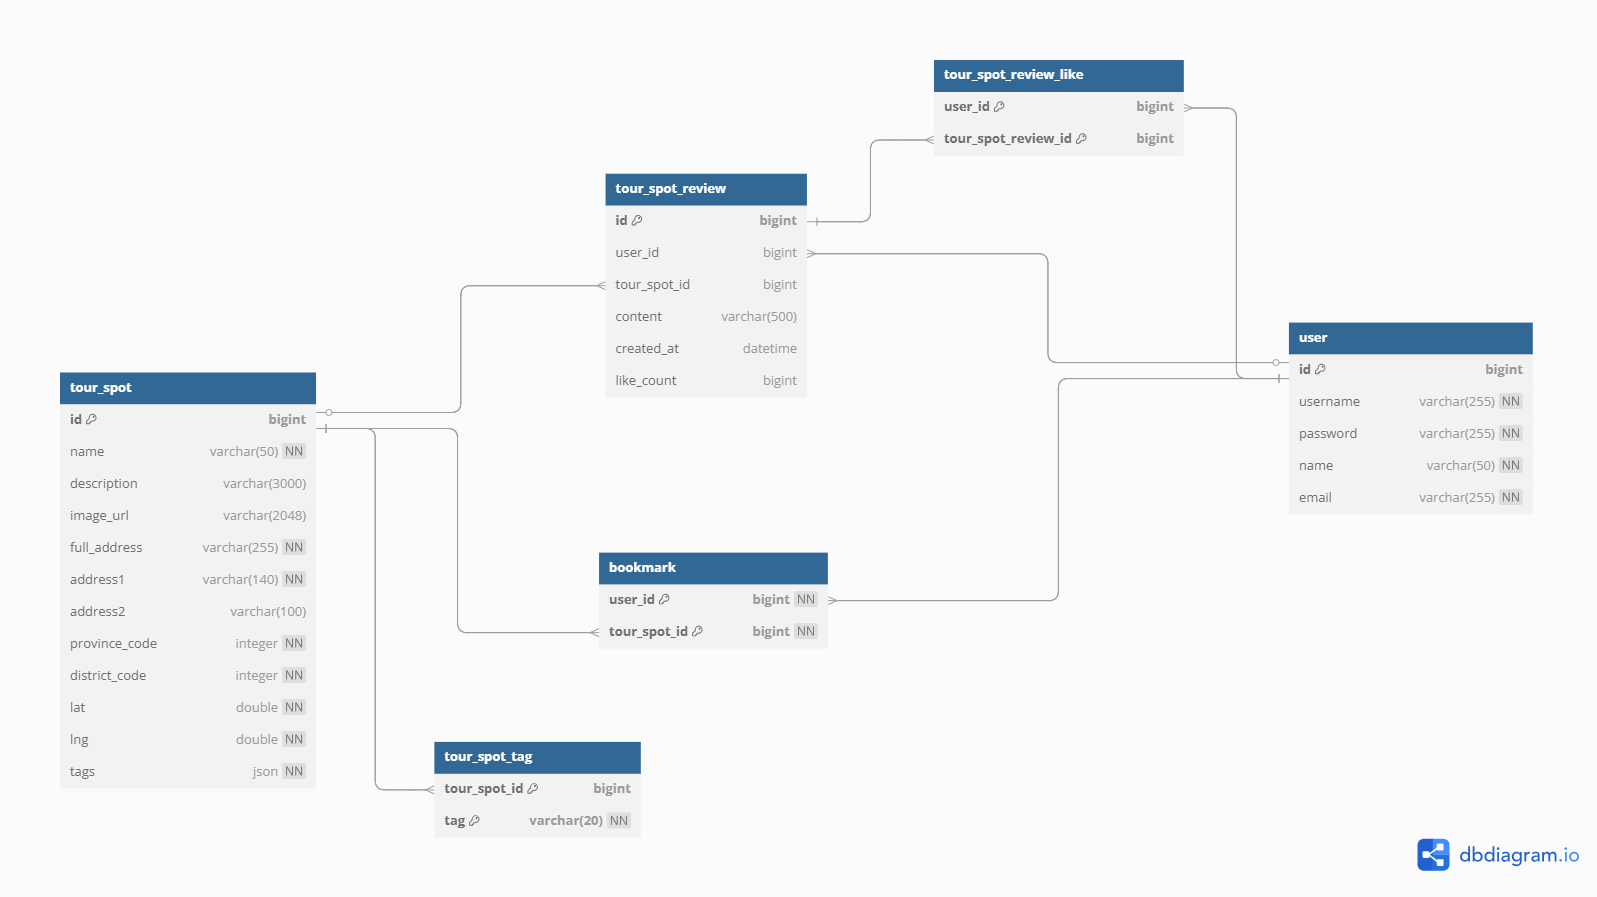
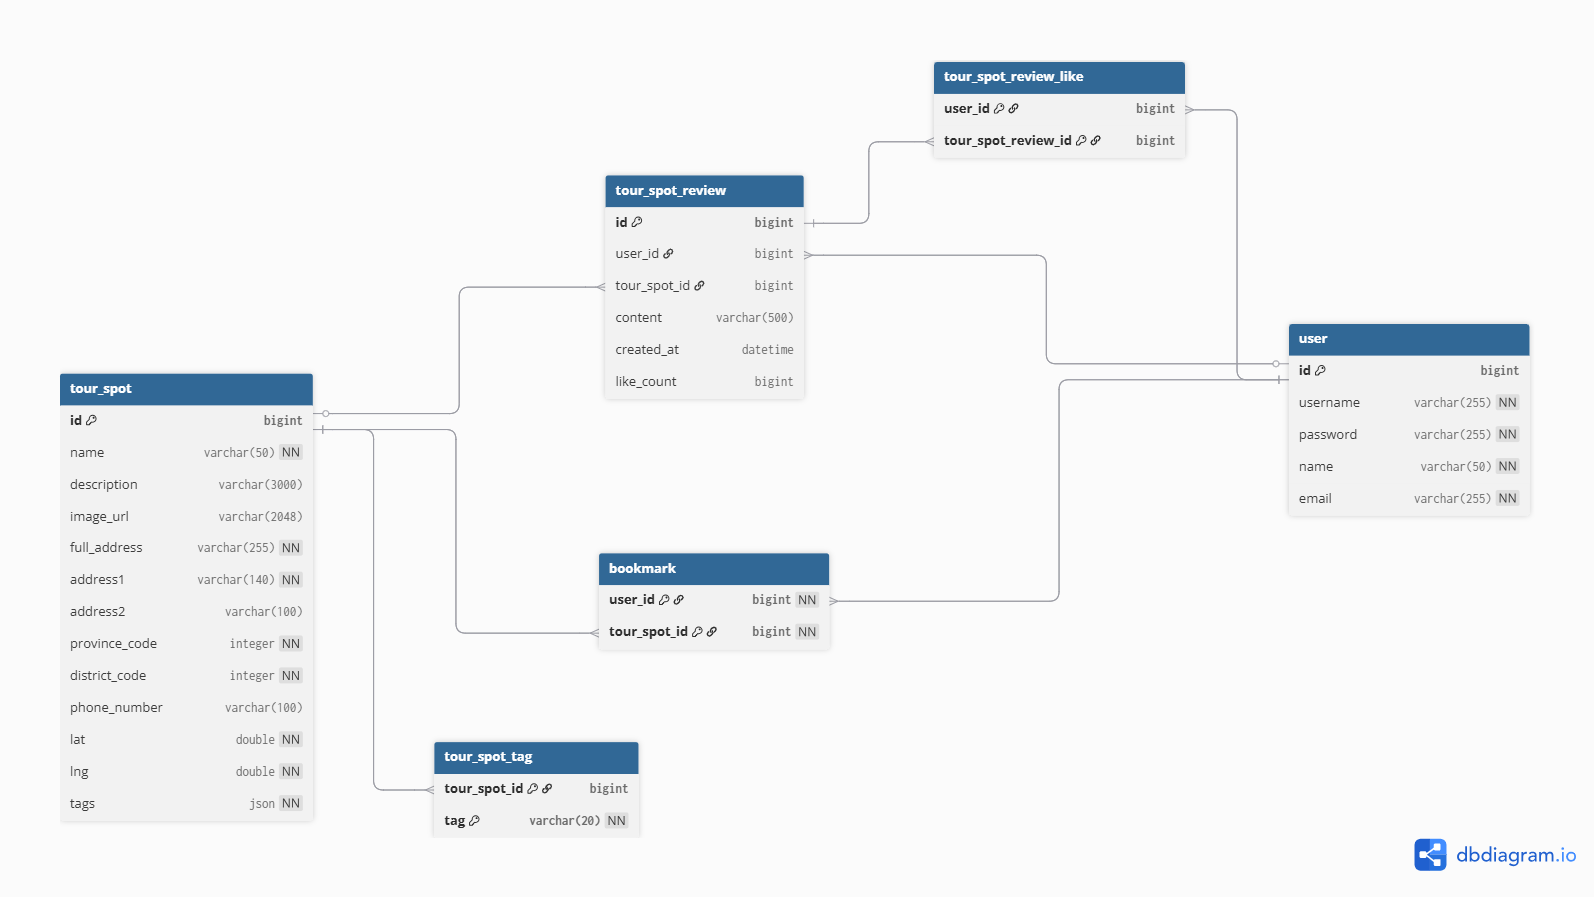
fix/backend: TourSpot 누락 칼럼(phone_number) 추가

diff --git a/backend/src/main/java/com/positivewand/tourin/domain/tourspot/TourSpotRepository.java b/backend/src/main/java/com/positivewand/tourin/domain/tourspot/TourSpotRepository.java
@@ -39,6 +39,7 @@ public interface TourSpotRepository extends JpaRepository<TourSpot, Long> {
                 filtered_ts.address2 as address1,
                 filtered_ts.province_code as province_code,
                 filtered_ts.district_code as district_code,
+                filtered_ts.phone_number as phone_number,
                 filtered_ts.lat as lat,
                 filtered_ts.lng as lng
             FROM (SELECT ts.* FROM tour_spot ts WHERE MATCH(ts.name) AGAINST(:query IN BOOLEAN MODE)) filtered_ts
@@ -70,6 +71,7 @@ public interface TourSpotRepository extends JpaRepository<TourSpot, Long> {
                 filtered_ts.address2 as address1,
                 filtered_ts.province_code as province_code,
                 filtered_ts.district_code as district_code,
+                filtered_ts.phone_number as phone_number,
                 filtered_ts.lat as lat,
                 filtered_ts.lng as lng
             FROM (SELECT ts.* FROM tour_spot ts) filtered_ts
@@ -129,6 +131,7 @@ public interface TourSpotRepository extends JpaRepository<TourSpot, Long> {
                 filtered_ts.address2 as address1,
                 filtered_ts.province_code as province_code,
                 filtered_ts.district_code as district_code,
+                filtered_ts.phone_number as phone_number,
                 filtered_ts.lat as lat,
                 filtered_ts.lng as lng
             FROM (
@@ -178,6 +181,7 @@ public interface TourSpotRepository extends JpaRepository<TourSpot, Long> {
                 filtered_ts.address2 as address1,
                 filtered_ts.province_code as province_code,
                 filtered_ts.district_code as district_code,
+                filtered_ts.phone_number as phone_number,
                 filtered_ts.lat as lat,
                 filtered_ts.lng as lng
             FROM (

diff --git a/backend/src/main/java/com/positivewand/tourin/domain/tourspot/entity/TourSpot.java b/backend/src/main/java/com/positivewand/tourin/domain/tourspot/entity/TourSpot.java
@@ -34,6 +34,8 @@ public class TourSpot {
     private Integer provinceCode;
     @Column(name="district_code")
     private Integer districtCode;
+    @Column(name="phone_number")
+    private String phoneNumber;
     @Column(name = "lat")
     private Double lat;
     @Column(name = "lng")
@@ -53,6 +55,7 @@ public class TourSpot {
             String address2,
             int provinceCode,
             int districtCode,
+            String phoneNumber,
             double lat,
             double lng,
             List<TourSpotCategory> tags
@@ -68,6 +71,7 @@ public class TourSpot {
         newTourSpot.address2 = address2;
         newTourSpot.provinceCode = provinceCode;
         newTourSpot.districtCode = districtCode;
+        newTourSpot.phoneNumber = phoneNumber;
         newTourSpot.lat = lat;
         newTourSpot.lng = lng;
         newTourSpot.tags = new ArrayList<>();

diff --git a/backend/src/main/java/com/positivewand/tourin/web/tourspot/response/TourSpotOverviewResponse.java b/backend/src/main/java/com/positivewand/tourin/web/tourspot/response/TourSpotOverviewResponse.java
@@ -12,6 +12,7 @@ public record TourSpotOverviewResponse(
         double lng,
         String imageUrl,
         String description,
+        String phoneNumber,
         List<String> tags
 ) {
     public static TourSpotOverviewResponse createFromTourSpotDto(TourSpotDto tourSpotDto) {
@@ -23,6 +24,7 @@ public record TourSpotOverviewResponse(
                 tourSpotDto.lng(),
                 tourSpotDto.imageUrl(),
                 tourSpotDto.description(),
+                tourSpotDto.phoneNumber(),
                 tourSpotDto.tags()
         );
     }

diff --git a/backend/src/test/java/com/positivewand/tourin/web/tourspot/TourSpotSearchControllerTest.java b/backend/src/test/java/com/positivewand/tourin/web/tourspot/TourSpotSearchControllerTest.java
@@ -106,6 +106,7 @@ public class TourSpotSearchControllerTest {
                         "대충 address2",
                         111,
                         111,
+                        "대충 전화번호",
                         i < 10 ? seoulLat : tokyoLat,
                         i < 10 ? seoulLng : tokyoLng,
                         Arrays.asList(tags[i % 3])

diff --git a/backend/src/main/java/com/positivewand/tourin/domain/tourspot/dto/TourSpotDto.java b/backend/src/main/java/com/positivewand/tourin/domain/tourspot/dto/TourSpotDto.java
@@ -24,7 +24,7 @@ public record TourSpotDto(
                 entity.getLng(),
                 entity.getImageUrl(),
                 entity.getDescription(),
-                entity.getFullAddress(),
+                entity.getPhoneNumber(),
                 entity.getTags().stream().map((tourSpotTag -> tourSpotTag.getTag().getViewString())).toList()
         );
     }

diff --git a/backend/src/test/java/com/positivewand/tourin/web/tourspot/RecommendationControllerTest.java b/backend/src/test/java/com/positivewand/tourin/web/tourspot/RecommendationControllerTest.java
@@ -100,6 +100,7 @@ class RecommendationControllerTest {
                     "대충 address2",
                     111,
                     111,
+                    "대충 전화번호",
                     37.5642135,
                     127.0016985,
                     Arrays.asList(TourSpotCategory.EXPERIENCE)

diff --git a/backend/src/test/java/com/positivewand/tourin/web/user/UserControllerTest.java b/backend/src/test/java/com/positivewand/tourin/web/user/UserControllerTest.java
@@ -106,6 +106,7 @@ class UserControllerTest {
                     "대충 address2",
                     111,
                     111,
+                    "대충 전화번호",
                     37.5642135,
                     127.0016985,
                     Arrays.asList(TourSpotCategory.EXPERIENCE)

diff --git a/backend/src/test/java/com/positivewand/tourin/web/tourspot/TourSpotControllerTest.java b/backend/src/test/java/com/positivewand/tourin/web/tourspot/TourSpotControllerTest.java
@@ -81,6 +81,7 @@ class TourSpotControllerTest {
                 "대충 address2",
                 111,
                 111,
+                "대충 전화번호",
                 37.7642173334521,
                 128.88380355693758,
                 Arrays.asList(TourSpotCategory.EXPERIENCE)

diff --git a/backend/src/test/java/com/positivewand/tourin/domain/tourspot/TourSpotSchedulerTest.java b/backend/src/test/java/com/positivewand/tourin/domain/tourspot/TourSpotSchedulerTest.java
@@ -43,6 +43,7 @@ class TourSpotSchedulerTest {
                 "상세주소",
                 1,
                 1,
+                "테스트 전화번호",
                 1.0,
                 1.0,
                 null
